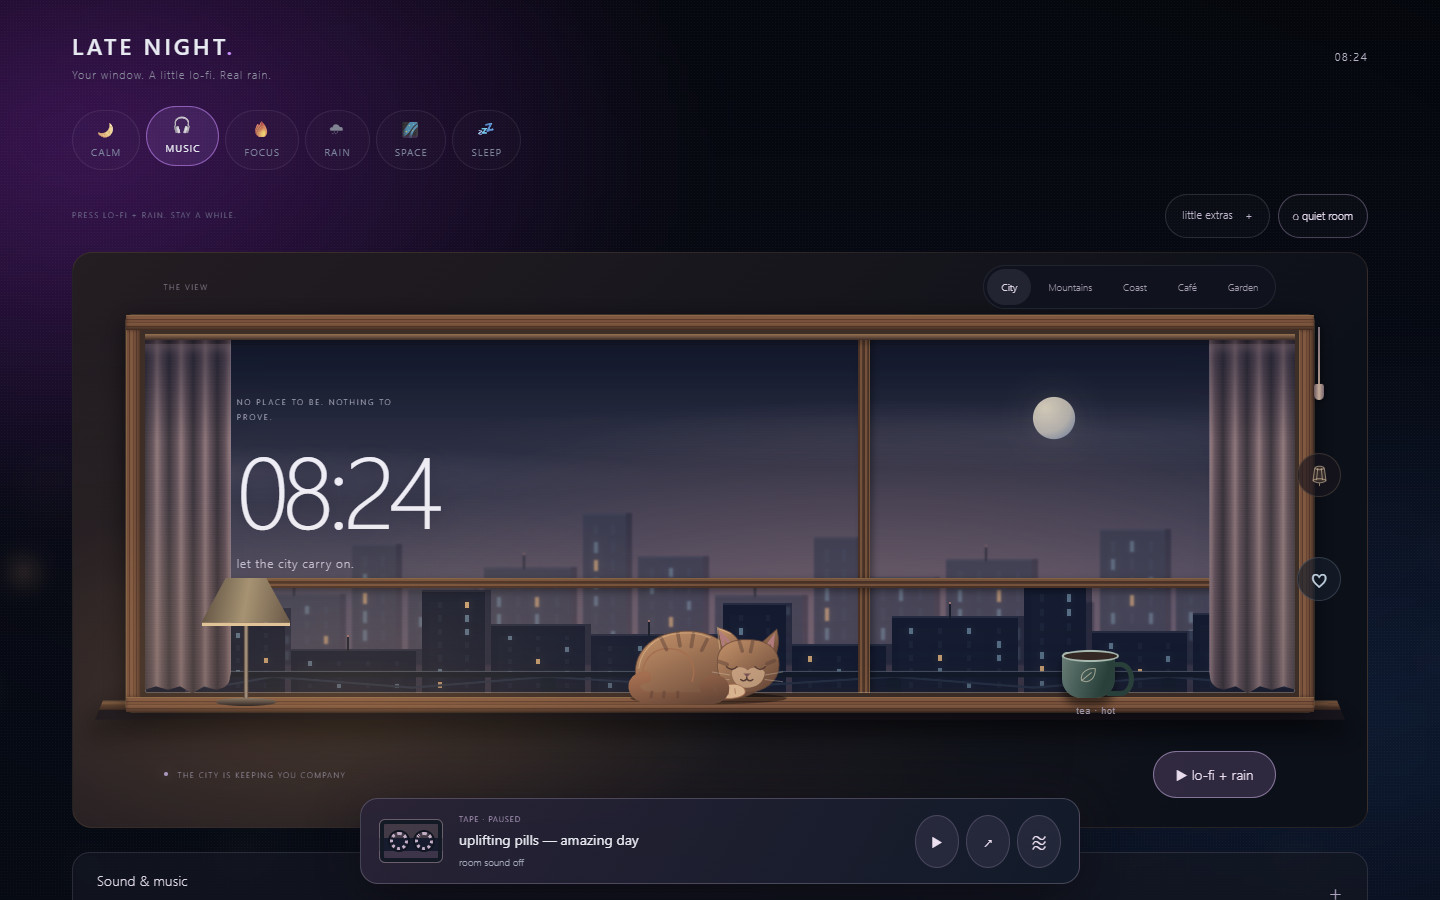
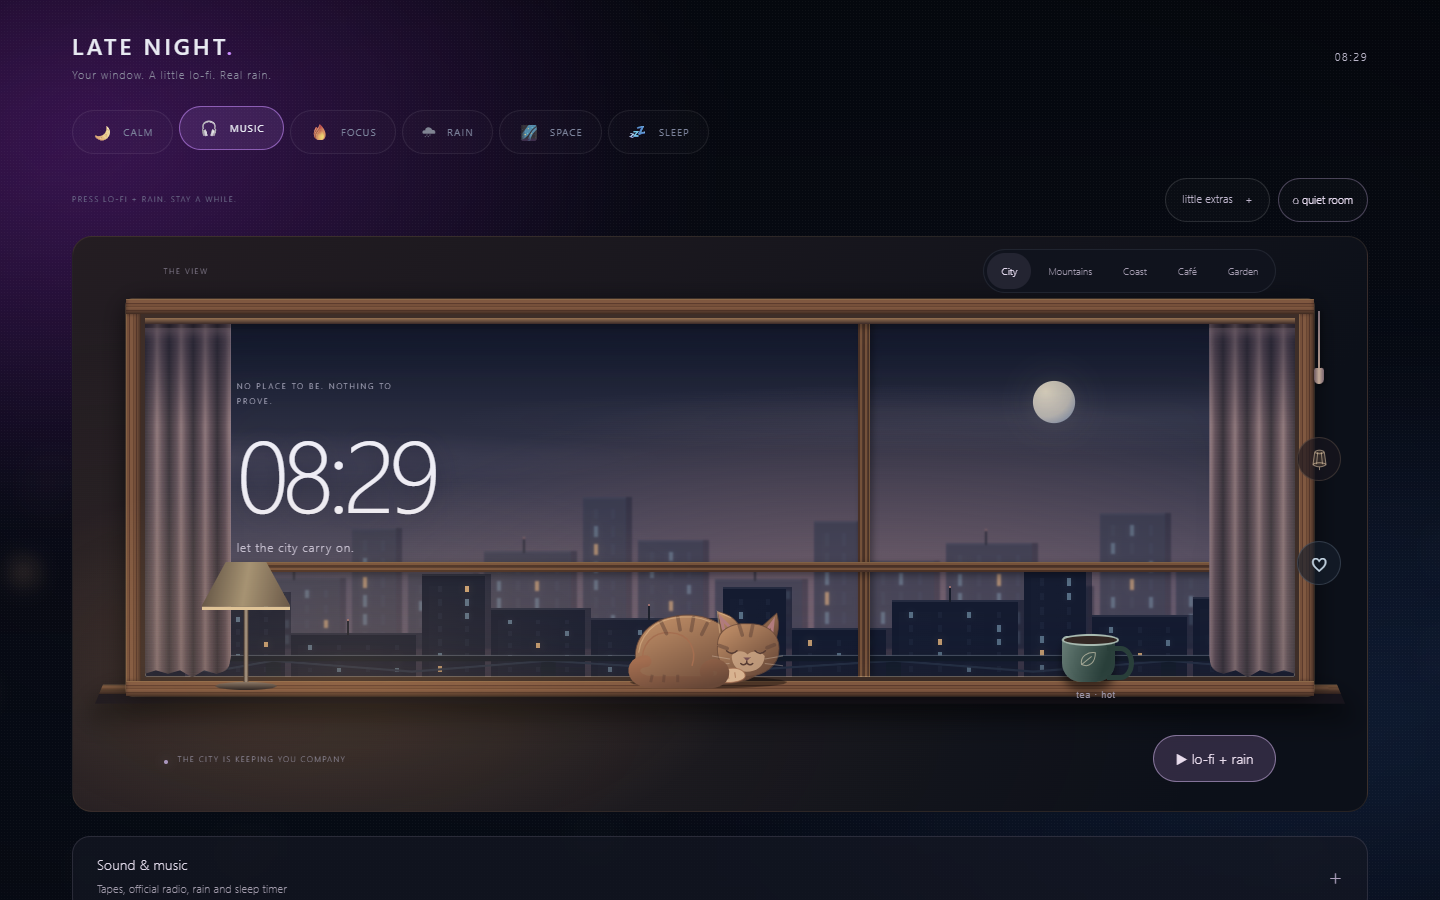
docs: show the quieter arrival and guide the existing listening controls

diff --git a/README.md b/README.md
@@ -9,7 +9,7 @@ No accounts, no backend, no notifications — just a dark little corner of the i
 
 ## Just settle in
 
-1. Press **lo-fi + rain** at the bottom of the window. One click starts both.
+1. Press **lo-fi + rain** at the bottom of the window. One click starts both; **pause sounds** pauses both.
 2. Change **City / Mountains / Coast / Café / Garden** above the glass if you like.
 3. Choose **quiet room** to leave the window and music in view. Escape brings you back.
 
@@ -27,7 +27,16 @@ recording title opens the appropriate sound controls, even when folded.
 Folding a section leaves music, timers, drafts and room objects in place. Sections
 start closed on the next visit; your actual room and sound preferences remain.
 
-![A window first, with optional controls folded out of the way](assets/simple-arrival.png)
+The first visit has one play button. The bottom player appears after you start
+listening or open **Sound & music**; browsing views and moods alone leaves it
+out of the way. After a pause it stays available for the rest of this visit.
+
+The window's existing signature becomes a listening line: the current tape and
+background, loading, a quiet pause, or an unavailable recording. **Retry sounds**
+retries a failed start. Zero volume gets its own message, so silence is explained
+without changing your chosen levels.
+
+![One play action at the window, with the listening controls tucked away](assets/simple-arrival.png)
 
 ## Choose an evening
 
@@ -105,13 +114,13 @@ new look works for this visit.
 
 ## A player within reach
 
-The **Pocket player** stays at the bottom of the screen, including in **Quiet
-room**. It follows the current tape, official radio or room recording, so you
+After you start listening or open **Sound & music**, the **Pocket player** stays
+at the bottom of the screen, including in **Quiet room**. It follows the current tape, official radio or room recording, so you
 can keep listening without scrolling back to the desk.
 
 - **Play / pause** controls the tape, or the room recording in other moods.
   Pausing a tape leaves rain playing. **Next** follows your tape queue first.
-- **≋** opens a small mixer with separate tape and room volume, an independent
+- **mix** opens a small mixer with separate tape and room volume, an independent
   room-sound switch, and the existing real-rain switch in Music mood.
 - **All quiet** stops tapes, room recordings and the radio. Your focus session,
   window journey and sound deadline keep their own state.
@@ -121,7 +130,8 @@ its position appears here too; seeking while paused keeps it paused. The
 ordinary desk controls and the Pocket player share the same audio and levels.
 Loading, unavailable recordings and muted levels have their own labels.
 
-YouTube keeps its own transport and volume controls. **Radio ↗** takes you to
+YouTube keeps its own transport and volume controls. **Radio controls ↗** at the
+window, or **radio ↗** in the Pocket player, takes you to
 the existing embedded player, leaving Quiet room if necessary. The Pocket
 player reports whether that player is open; it does not guess whether YouTube
 is currently audible. Opening the controls preserves an existing iframe.
@@ -133,7 +143,12 @@ Escape closes the mixer first; another Escape can then leave Quiet room.
 Clicking outside also closes the mixer. Reels rest in hidden tabs and with
 reduced motion. Narrow screens and short landscape windows can scroll the mixer.
 
-![The Pocket player and separate music and rain controls in Quiet room](assets/pocket-player.png)
+The mixer labels the music **Lo-fi** and names rain or a deliberately chosen
+background such as **Ocean**. Each channel has its own volume block; keyboard
+sliders announce a zero level as muted. **Next** and **mix** are written out in
+the player. No recording is restarted when you adjust either level.
+
+![The listening mixer with separate Lo-fi and Rain volume blocks](assets/listening-mix.png)
 
 ## Let the window wander
 

diff --git a/ROADMAP.md b/ROADMAP.md
@@ -18,6 +18,10 @@ understand how to listen without reading a guide.
 - [x] three folded desk sections; ready-made evenings and journeys below the room
 - [x] optional window extras and sound navigation that reveals its destination
 - [x] keyboard, phone and playback-continuity checks for the collapsed entry
+- [x] one play action on arrival; show the Pocket player after listening intent
+- [x] explain playing, loading, failed recordings and muted levels at the window
+- [x] direct access to the existing YouTube controls and readable next / mix buttons
+- [x] separate, named volume blocks and a phone layout with reachable pause and retry
 
 ## The next eight weeks
 
